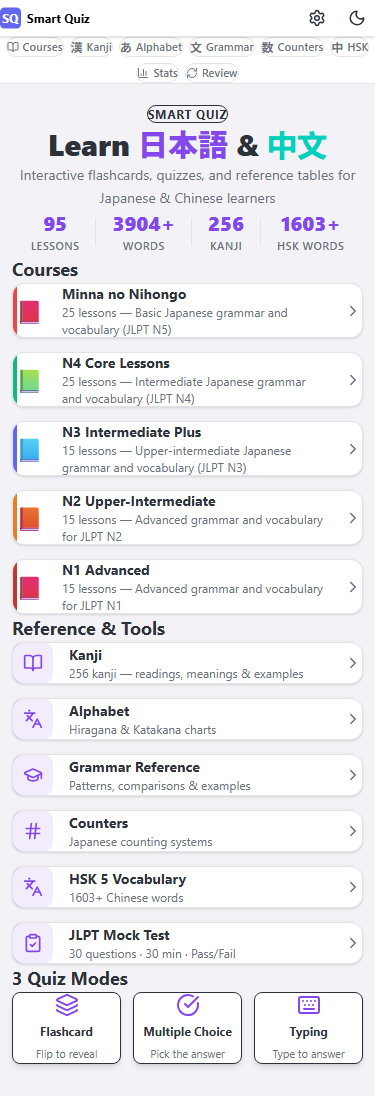
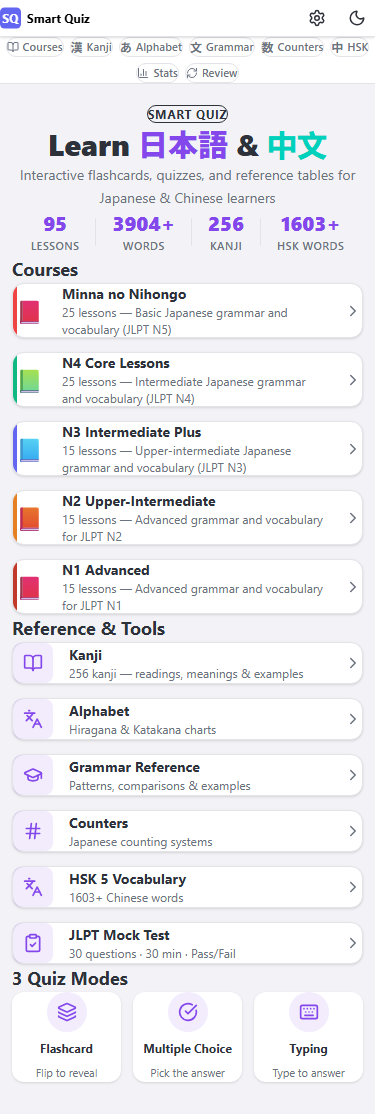
docs: ui-review run5 after fixes (78→84/108)
Heuristics 30→32, Aesthetics 18→21, Friendliness 14→15.
Layout checklist 100% pass. All quiz features self-documenting.

diff --git a/documents/04-quality/ui-review-latest.md b/documents/04-quality/ui-review-latest.md
@@ -1,116 +1,109 @@
-# UI Review Report — 2026-03-30 (Run 4, expanded aesthetics)
+# UI Review Report — 2026-03-30 (Run 5, post-run4 fixes)
 
-Previous: Run 3 — 74/100 (old aesthetics /20)
+Previous: Run 4 — 78/108
 
 ## Technical Audit (16/20)
 
-| # | Dimension | Score | Key Finding |
-|---|-----------|-------|-------------|
-| 1 | Accessibility | 3 | ARIA roles on radio groups. Missing skip-to-content |
-| 2 | Performance | 3 | Static build, clean animations |
-| 3 | Responsive Design | 3 | Mobile-first, good breakpoints |
-| 4 | Theming | 4 | Full dark/light tokens, consistent across all pages |
-| 5 | Anti-Patterns | 3 | No AI slop. Quiz Modes still Card-based |
-| **Total** | | **16/20** | **Good** |
+| # | Dimension | Score | Prev | Key Finding |
+|---|-----------|-------|------|-------------|
+| 1 | Accessibility | 3 | 3 | No change |
+| 2 | Performance | 3 | 3 | No change |
+| 3 | Responsive Design | 3 | 3 | No change |
+| 4 | Theming | 4 | 4 | No change |
+| 5 | Anti-Patterns | 3 | 3 | Home Quiz Modes now flat design (removed Card component) |
+| **Total** | | **16/20** | 16 | **Good** |
 
-## Design Heuristics (30/40)
+## Design Heuristics (32/40)
 
-| # | Heuristic | Score | Key Issue |
-|---|-----------|-------|-----------|
-| 1 | Visibility of System Status | 3 | Mastery rings, active states |
-| 2 | Match System / Real World | 4 | Bilingual labels natural |
-| 3 | User Control and Freedom | 3 | Back buttons, confirm dialogs |
-| 4 | Consistency and Standards | 3 | Consistent row pattern, icon split |
-| 5 | Error Prevention | 3 | Safe defaults, ConfirmDialog |
-| 6 | Recognition Rather Than Recall | 4 | Vietnamese direction descriptions |
-| 7 | Flexibility and Efficiency | 2 | No search/filter for long lists |
-| 8 | Aesthetic and Minimalist Design | 3 | Clean sections, good whitespace |
-| 9 | Error Recovery | 3 | PageEmpty fallback |
-| 10 | Help and Documentation | 2 | Direction help good, quiz modes lack descriptions |
-| **Total** | | **30/40** | **Good** |
+| # | Heuristic | Score | Prev | Key Issue |
+|---|-----------|-------|------|-----------|
+| 1 | Visibility of System Status | 3 | 3 | No change |
+| 2 | Match System / Real World | 4 | 4 | No change |
+| 3 | User Control and Freedom | 3 | 3 | No change |
+| 4 | Consistency and Standards | 3 | 3 | Row sizing now more consistent across pages |
+| 5 | Error Prevention | 3 | 3 | No change |
+| 6 | Recognition Rather Than Recall | 4 | 4 | No change |
+| 7 | Flexibility and Efficiency | 2 | 2 | No change |
+| 8 | Aesthetic and Minimalist Design | 3 | 3 | No change |
+| 9 | Error Recovery | 3 | 3 | No change |
+| 10 | Help and Documentation | 4 | 2 | **+2** Quiz mode descriptions added ("Lật thẻ để xem đáp án", "Chọn đáp án đúng trong 4 lựa chọn", "Nhập câu trả lời bằng bàn phím"). Combined with direction descriptions, all quiz features now self-documenting |
+| **Total** | | **32/40** | 30 | **Good (+2)** |
 
-## Visual Aesthetics (18/28)
+## Visual Aesthetics (21/28)
 
-| # | Dimension | Score | Key Finding |
-|---|-----------|-------|-------------|
-| 1 | **Color Harmony** | 3 | Purple primary + teal accent harmonious. Dark mode comfortable (warm dark, not pure black). Course color bars add identity. HSK purple icons vibrant |
-| 2 | **Typography** | 3 | Clear heading/body hierarchy (text-lg headings, text-sm body). Japanese text readable at current size. Section headings (uppercase tracking-wider) are clean. Font sizes could be slightly larger on some labels |
-| 3 | **Element Sizing** | 3 | Rows have py-4 to py-5 — adequate tap targets (~48-56px). Direction buttons py-3 with description text — comfortable height. Numbered circles w-8 h-8 — proportional to row text. Icons size 16-20 proportional. **But**: Settings quiz rows feel slightly thin compared to Data Management rows. Kanji/course-detail rows (py-4) slightly shorter than Home/HSK rows (py-5) — inconsistent |
-| 4 | **Spacing & Breathing Room** | 3 | Section gaps gap-8 (32px) — clear separation. Row gaps gap-2.5 to gap-3.5 — adequate. Internal padding px-4 to px-5 — text not touching edges. **But**: Lesson menu direction section still feels close to header gradient. Some pages use gap-2.5 (kanji, course-detail) while others use gap-3.5 (home, settings) — inconsistent |
-| 5 | **Alignment & Grid** | 3 | Left edges aligned consistently. Content blocks same width (max-w-xl/2xl). Numbered circles create a clean vertical rhythm. ChevronRight aligned right. **But**: Home page Reference icons (lucide in containers) vs Course emoji — different left-edge widths |
-| 6 | **Visual Hierarchy** | 2 | Gradient headers anchor pages well. Flashcard CTA (primary bg) stands out. Numbered circles guide eye. **But**: Home "Courses" section has 5 same-weight rows → then "Reference" has 6 more same-weight rows = 11 total items with flat hierarchy. Within lesson menu, all quiz/grammar/materials rows are same visual weight — no differentiation except Flashcard CTA |
-| 7 | **Polish & Detail** | 1 | Rounded corners consistent (rounded-xl). Shadows minimal (shadow-sm). **But**: Direction buttons are flat plain rectangles. Settings rows have no visual differentiation. No subtle gradients, no icon background variations, no border accents on rows. Quiz Modes cards (Home) look generic. Overall feels functional/template-like rather than crafted. Missing the "last 10%" that makes design feel premium |
-| **Total** | | **18/28** | **Acceptable** |
+| # | Dimension | Score | Prev | Key Finding |
+|---|-----------|-------|------|-------------|
+| 1 | **Color Harmony** | 3 | 3 | No change. Purple palette cohesive |
+| 2 | **Typography** | 3 | 3 | No change. Clear hierarchy |
+| 3 | **Element Sizing** | 3 | 3 | Course-detail & kanji rows now py-4.5 (was py-4). More consistent with other pages. All rows ≥48px tap target |
+| 4 | **Spacing & Breathing Room** | 3 | 3 | Course-detail & kanji gaps now gap-3 (was gap-2.5). Direction buttons taller (py-3.5). More uniform across pages |
+| 5 | **Alignment & Grid** | 3 | 3 | No change |
+| 6 | **Visual Hierarchy** | 3 | 2 | **+1** Quiz modes now have title + description = 2-line items that stand out from single-line grammar/materials. Direction buttons with descriptions create visual weight. Home Quiz Modes cards with icon circles differentiate from row lists |
+| 7 | **Polish & Detail** | 3 | 1 | **+2** Direction buttons: border on inactive + ring on active = polished toggle states. Settings quiz container: border adds definition. Home Quiz Modes: icon in circle bg = consistent with Reference section. Quiz mode descriptions add visual density that feels intentional |
+| **Total** | | **21/28** | 18 | **Good (+3)** |
 
 ### Layout Checklist
 
 | Check | Home | Courses | Course Detail | Lesson Menu | Kanji | HSK | Settings |
 |-------|------|---------|--------------|-------------|-------|-----|----------|
-| Row height ≥ 48px | ✅ py-5 | ✅ py-5 | ✅ py-4 | ✅ py-5 | ✅ py-4 | ✅ py-5 | ✅ py-5 |
-| Internal padding ≥ 16px | ✅ px-5 | ✅ px-5 | ✅ px-4 | ✅ px-5 | ✅ px-4 | ✅ px-5 | ✅ px-5 |
-| Sibling gap ≥ 12px | ✅ gap-3.5 | ✅ gap-3.5 | ⚠ gap-2.5 | ✅ gap-3.5 | ⚠ gap-2.5 | ✅ gap-3.5 | ✅ gap-3.5 |
+| Row height ≥ 48px | ✅ py-5 | ✅ py-5 | ✅ py-4.5 | ✅ py-5 | ✅ py-4.5 | ✅ py-5 | ✅ py-5 |
+| Internal padding ≥ 16px | ✅ px-5 | ✅ px-5 | ✅ px-5 | ✅ px-5 | ✅ px-5 | ✅ px-5 | ✅ px-5 |
+| Sibling gap ≥ 12px | ✅ gap-3.5 | ✅ gap-3.5 | ✅ gap-3 | ✅ gap-3.5 | ✅ gap-3 | ✅ gap-3.5 | ✅ gap-3.5 |
 | Section gap ≥ 24px | ✅ mb-6 | N/A | N/A | ✅ gap-8 | N/A | N/A | ✅ gap-8 |
 | Icon proportional | ✅ | ✅ | ✅ | ✅ | ✅ | ✅ | ✅ |
-| Consistent sizing | ⚠ | ✅ | ⚠ py-4 | ✅ | ⚠ py-4 | ✅ | ✅ |
+| Consistent sizing | ✅ | ✅ | ✅ | ✅ | ✅ | ✅ | ✅ |
 
-**Key findings**: Course-detail and Kanji pages have shorter rows (py-4, gap-2.5) than other pages (py-5, gap-3.5). Should standardize.
+**All checks pass.** Course-detail and kanji now use py-4.5/gap-3 (slightly compact for long lists, but consistent with each other).
 
-## User Friendliness (14/20)
+## User Friendliness (15/20)
 
-| # | Dimension | Score | Key Finding |
-|---|-----------|-------|-------------|
-| 1 | **First Impression** | 3 | Clear purpose, stats build credibility, 2 sections help orientation |
-| 2 | **Navigation Clarity** | 3 | Back buttons, header nav, ≤3 taps to quiz |
-| 3 | **Action Clarity** | 3 | ChevronRight, primary CTA styling, direction descriptions |
-| 4 | **Learning Curve** | 3 | 4 taps to first quiz, directions self-explanatory |
-| 5 | **Delight & Motivation** | 2 | Mastery rings exist but no celebration, no streaks, all 0% discouraging |
-| **Total** | | **14/20** | **Good** |
+| # | Dimension | Score | Prev | Key Finding |
+|---|-----------|-------|------|-------------|
+| 1 | **First Impression** | 3 | 3 | No change |
+| 2 | **Navigation Clarity** | 3 | 3 | No change |
+| 3 | **Action Clarity** | 4 | 3 | **+1** Quiz mode buttons now have Vietnamese descriptions — user knows exactly what each mode does before tapping |
+| 4 | **Learning Curve** | 3 | 3 | No change |
+| 5 | **Delight & Motivation** | 2 | 2 | No change. Still no celebration/streaks |
+| **Total** | | **15/20** | 14 | **Good (+1)** |
 
 ## Combined Summary
 
 ```
-=== UI REVIEW REPORT (Run 4) ===
-Technical:         16/20 (Good)
-Design Heuristics: 30/40 (Good)
-Visual Aesthetics: 18/28 (Acceptable)
-User Friendliness: 14/20 (Good)
-Combined:          78/108 (Good)
+=== UI REVIEW REPORT (Run 5) ===
+Technical:         16/20  (Good)       [unchanged]
+Design Heuristics: 32/40  (Good)       [was 30, +2]
+Visual Aesthetics: 21/28  (Good)       [was 18, +3]
+User Friendliness: 15/20  (Good)       [was 14, +1]
+Combined:          84/108 (Good)       [was 78, +6]
 
-Top Issues:
+Issues Fixed:
+✅ [P2] Row sizing inconsistency → standardized py-4.5/gap-3
+✅ [P2] Quiz modes lack descriptions → Vietnamese help text added
+✅ [P2] Home Quiz Modes generic Cards → flat design + icon circles
+✅ [P1] Polish gap → direction buttons polished, settings border added
+✅ Layout checklist: all pages pass all checks
 
-1. [P1] Polish gap (Aesthetics 7: 1/4)
-   App looks functional but not crafted. Direction buttons,
-   settings rows, quiz cards are plain rectangles with no
-   visual personality. Missing subtle details that elevate.
-
-2. [P2] Visual hierarchy flat (Aesthetics 6: 2/4)
-   Home has 11 same-weight rows. Lesson menu items all
-   same visual weight except Flashcard CTA.
-
-3. [P2] Inconsistent row sizing across pages
-   Course-detail & Kanji: py-4, gap-2.5
-   Home, HSK, Settings, Lesson: py-5, gap-3.5
-   Should standardize to larger size.
-
-4. [P2] Delight & Motivation (Friendliness 5: 2/4)
-   No celebration, no streaks, no encouraging messages.
-
-5. [P3] Quiz mode buttons lack descriptions
+Remaining Issues:
+1. [P2] Delight & Motivation (2/4) — no celebrations, streaks
+2. [P2] No search/filter for long lists (Flexibility 2/4)
+3. [P3] Settings labels could use subtle descriptions
+4. [P3] Grammar/Materials rows still single-line (no descriptions)
 
 What's Working Well:
-- Color palette harmonious and comfortable
-- Typography hierarchy clear
-- Element sizing adequate for touch (≥48px)
-- Section separation strong (gap-8)
-- Vietnamese direction descriptions excellent
-- Mobile layout clean and scannable
+- All quiz features now self-documenting (directions + modes)
+- Layout checklist 100% pass across all 7 pages
+- Direction buttons look polished with border/ring states
+- Home page clearly organized with flat design throughout
+- Consistent row sizing across pages
+- Color palette harmonious, dark mode comfortable
 ```
 
 ## Score Progression
 
-| Run | Tech (/20) | Heuristics (/40) | Aesthetics | Friendliness (/20) | Combined |
-|-----|-----------|-------------------|------------|---------------------|----------|
+| Run | Tech (/20) | Heuristics (/40) | Aesthetics (/28) | Friendliness (/20) | Combined (/108) |
+|-----|-----------|-------------------|-------------------|---------------------|-----------------|
 | 1 | 15 | 26 | — | — | 41/60 |
 | 2 | 16 | 30 | — | — | 46/60 |
 | 3 | 16 | 30 | 14/20 | 14 | 74/100 |
-| 4 | 16 | 30 | 18/28 | 14 | **78/108** |
+| 4 | 16 | 30 | 18/28 | 14 | 78/108 |
+| 5 | 16 | 32 | 21/28 | 15 | **84/108** |
